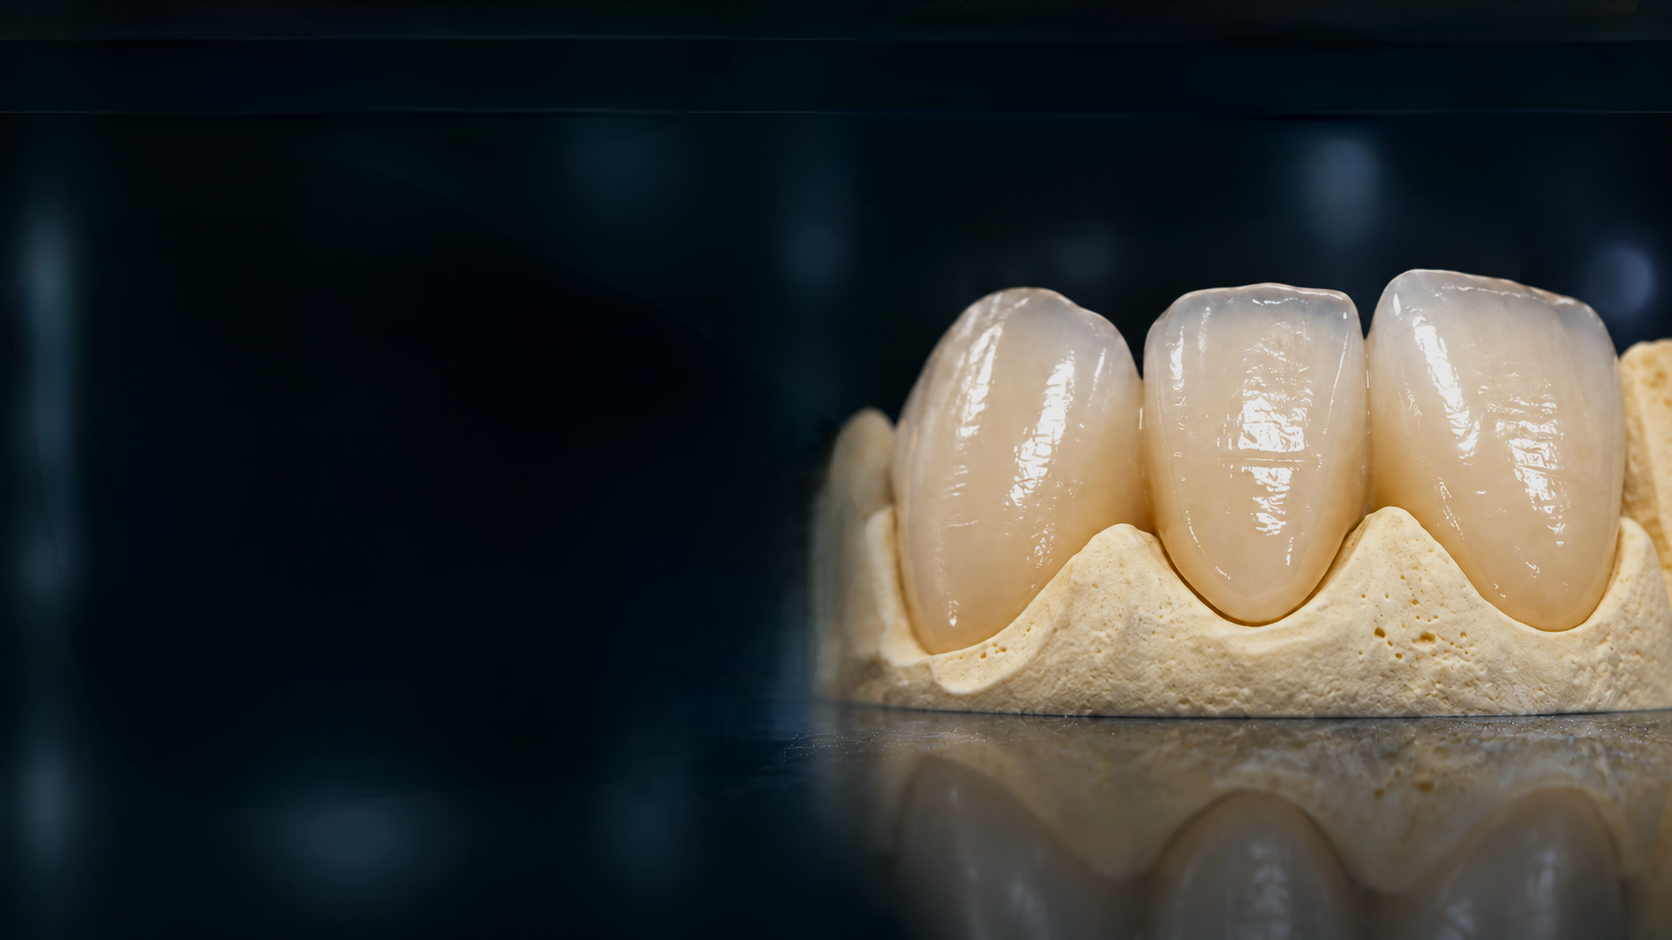
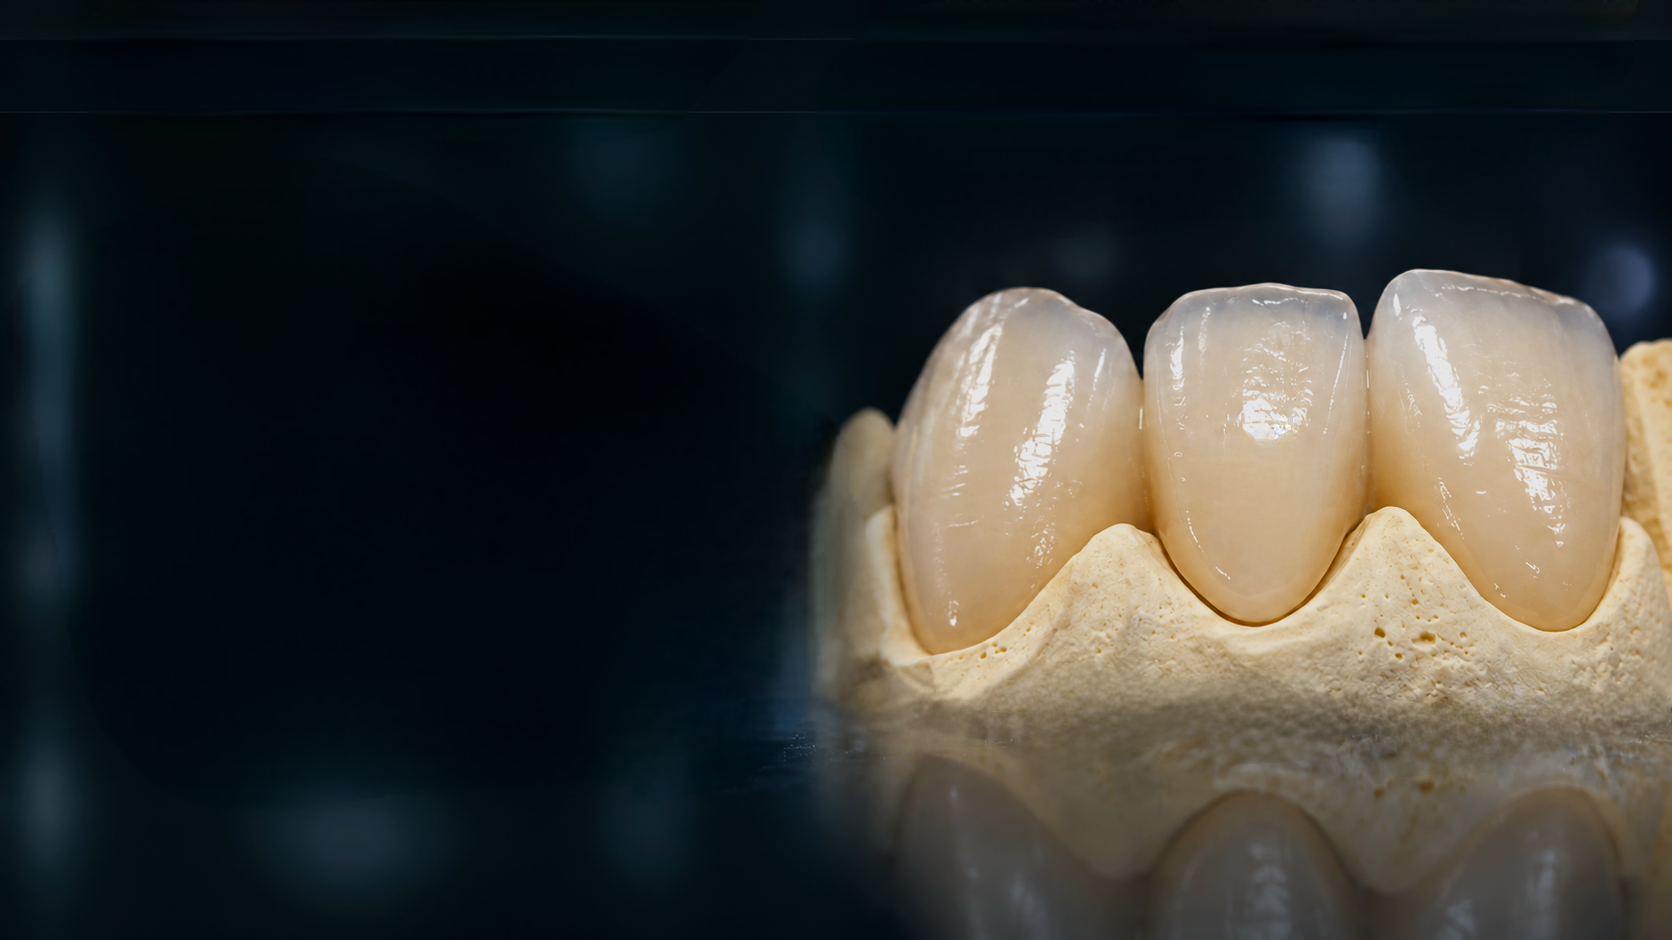
feat: add new background images and update image sources

Changed region(s): [[0.4976, 0.7096, 1.0, 0.833], [0.7153, 0.4319, 0.7775, 0.5862]]

diff --git a/index.html b/index.html
@@ -2208,30 +2208,30 @@
 
                                     <div class="grid grid-cols-1 sm:grid-cols-2">
                                         <!-- IMAGE MODULE -->
-                                        <div class="relative bg-navy-900 overflow-hidden border-b sm:border-b-0 sm:border-r border-[rgba(145,205,224,0.12)] flex items-start justify-center">
-                                            <img src="https://images.unsplash.com/photo-1675516030465-e2ad117e870f?q=80&w=1170&auto=format&fit=crop&ixlib=rb-4.1.0&ixid=NHwxMjA3fDA%3D"
-                                                alt="Precision Dental 3D Printed Surgical Guide"
-                                                class="w-full max-h-[500px] object-contain filter brightness-90 group-hover:scale-105 transition-all duration-700"
-                                                loading="lazy"
-                                                onerror="this.style.display='none'; this.nextElementSibling.classList.remove('hidden');">
-                                            
-                                            <!-- Fallback Placeholder -->
-                                            <div class="hidden absolute inset-0 bg-navy-900 items-center justify-center p-6 text-center">
-                                                <div>
-                                                    <span class="text-2xl font-extrabold tracking-tight text-white block">
-                                                        SURGICAL GUIDE
-                                                    </span>
-                                                    <span class="block mt-2 text-[10px] font-sans tracking-[0.2em] text-ice-500 font-semibold">
-                                                        PRECISION IMPLANTOLOGY
-                                                    </span>
+                                        <div class="relative bg-black overflow-hidden border-b sm:border-b-0 sm:border-r border-[rgba(145,205,224,0.12)] flex flex-col justify-between">
+                                            <!-- 아미지 -->
+                                            <div class="relative w-full flex-1 flex items-center justify-center sm:min-h-[220px]">
+                                                <img src="img/03_product_surgicalGuide.png"
+                                                    alt="Precision Dental 3D Printed Surgical Guide"
+                                                    class="w-full max-h-[500px] object-contain filter brightness-90 group-hover:scale-105 transition-all duration-700"
+                                                    loading="lazy"
+                                                    onerror="this.style.display='none'; this.nextElementSibling.classList.remove('hidden');">
+                                                
+                                                <!-- Fallback Placeholder -->
+                                                <div class="hidden absolute inset-0 bg-navy-900 items-center justify-center p-6 text-center">
+                                                    <div>
+                                                        <span class="text-2xl font-extrabold tracking-tight text-white block">
+                                                            SURGICAL GUIDE
+                                                        </span>
+                                                        <span class="block mt-2 text-[10px] font-sans tracking-[0.2em] text-ice-500 font-semibold">
+                                                            PRECISION IMPLANTOLOGY
+                                                        </span>
+                                                    </div>
                                                 </div>
                                             </div>
 
-                                            <!-- Dark Overlay -->
-                                            <div class="absolute inset-0 bg-gradient-to-t from-navy-900/90 via-navy-900/20 to-transparent pointer-events-none"></div>
-
                                             <!-- Image Label -->
-                                            <div class="absolute bottom-0 left-0 right-0 p-6 bg-navy-900/80 backdrop-blur-md border-t border-[rgba(145,205,224,0.12)]">
+                                            <div class="p-5 sm:p-6 bg-navy-900/80 backdrop-blur-md border-t border-[rgba(145,205,224,0.12)]">
                                                 <span class="text-[9px] font-sans tracking-[0.2em] uppercase text-ice-500 font-semibold block">
                                                     DIGITAL SURGERY
                                                 </span>
@@ -2571,28 +2571,27 @@
                         <div class="grid grid-cols-1 lg:grid-cols-2">
                             
                             <!-- Image Module -->
-                            <div class="relative min-h-[430px] lg:min-h-[460px] bg-navy-900 overflow-hidden border-b lg:border-b-0 lg:border-r border-[rgba(145,205,224,0.15)]">
-                                <img src="img/04_workflow.png"
-                                    alt="Digital dental laboratory workflow"
-                                    class="absolute inset-0 w-full h-full object-cover filter brightness-90 hover:scale-105 transition-all duration-700" loading="lazy"
-                                    onerror="this.style.display='none';this.nextElementSibling.style.display='flex';">
+                            <div class="relative min-h-[430px] lg:min-h-[460px] bg-[rgb(8,11,25)] overflow-hidden border-b lg:border-b-0 lg:border-r border-[rgba(145,205,224,0.15)]">
+                                <div class="relative w-full flex-1 flex items-center justify-center p-4">
+                                    <img src="img/04_digitalWorkflow_1.png"
+                                        alt="Digital dental laboratory workflow"
+                                        class="w-full max-h-[320px] lg:max-h-[350px] object-contain filter brightness-90 hover:scale-105 transition-all duration-700" 
+                                        onerror="this.style.display='none';this.nextElementSibling.style.display='flex';">
 
-                                <!-- Fallback -->
-                                <div class="hidden absolute inset-0 bg-navy-900 items-center justify-center p-6 text-center">
-                                    <div>
-                                        <span class="text-2xl font-extrabold tracking-tight text-white block">
-                                            DIGITAL LAB
-                                        </span>
-                                        <span class="block mt-2 text-[10px] font-sans tracking-[0.25em] text-ice-500 font-semibold">
-                                            CAD / CAM PRODUCTION
-                                        </span>
+                                    <!-- Fallback -->
+                                    <div class="hidden absolute inset-0 bg-navy-900 items-center justify-center p-6 text-center">
+                                        <div>
+                                            <span class="text-2xl font-extrabold tracking-tight text-white block">
+                                                DIGITAL LAB
+                                            </span>
+                                            <span class="block mt-2 text-[10px] font-sans tracking-[0.25em] text-ice-500 font-semibold">
+                                                CAD / CAM PRODUCTION
+                                            </span>
+                                        </div>
                                     </div>
                                 </div>
 
-                                <!-- Image Overlay -->
-                                <div class="absolute inset-0 bg-gradient-to-t from-navy-900/90 via-navy-900/20 to-transparent pointer-events-none"></div>
-
-                                <div class="absolute bottom-0 left-0 right-0 p-7 bg-navy-900/80 backdrop-blur-md border-t border-[rgba(145,205,224,0.12)]">
+                                <div class="p-7 bg-navy-900/80 backdrop-blur-md border-t border-[rgba(145,205,224,0.12)]">
                                     <span class="text-[9px] font-sans tracking-[0.2em] text-ice-500 font-semibold block">
                                         DIGITAL DENTAL LABORATORY
                                     </span>
@@ -2732,11 +2731,12 @@
                             </p>
 
                             <!-- Technical Image Module -->
-                            <div class="relative mt-8 h-52 bg-charcol-800/80 backdrop-blur-xl border border-[rgba(145,205,224,0.15)] shadow-[0_15px_40px_rgba(4,8,15,0.5)] overflow-hidden">
-                                <div class="absolute top-0 left-0 right-0 h-[2px] bg-gradient-to-r from-transparent via-ice-500/40 to-transparent"></div>
+                            <div class="relative mt-8 h-52 bg-[rgb(8,11,25)] backdrop-blur-xl border border-[rgba(145,205,224,0.15)] shadow-[0_15px_40px_rgba(4,8,15,0.5)] overflow-hidden flex items-center justify-center">
                                 
-                                <img src="https://images.pexels.com/photos/3845984/pexels-photo-3845984.jpeg?auto=compress&cs=tinysrgb&w=1000"
-                                    alt="Dental digital scanning workflow" class="w-full h-full object-cover filter brightness-90 hover:scale-105 transition-all duration-700"
+                                
+                                <img src="img/04_workflow_2.png"
+                                    alt="Dental digital scanning workflow" 
+                                    class="max-w-full max-h-full object-contain filter brightness-90 hover:scale-105 transition-all duration-700"
                                     loading="lazy"
                                     onerror="this.style.display='none';this.nextElementSibling.style.display='flex';">
 
